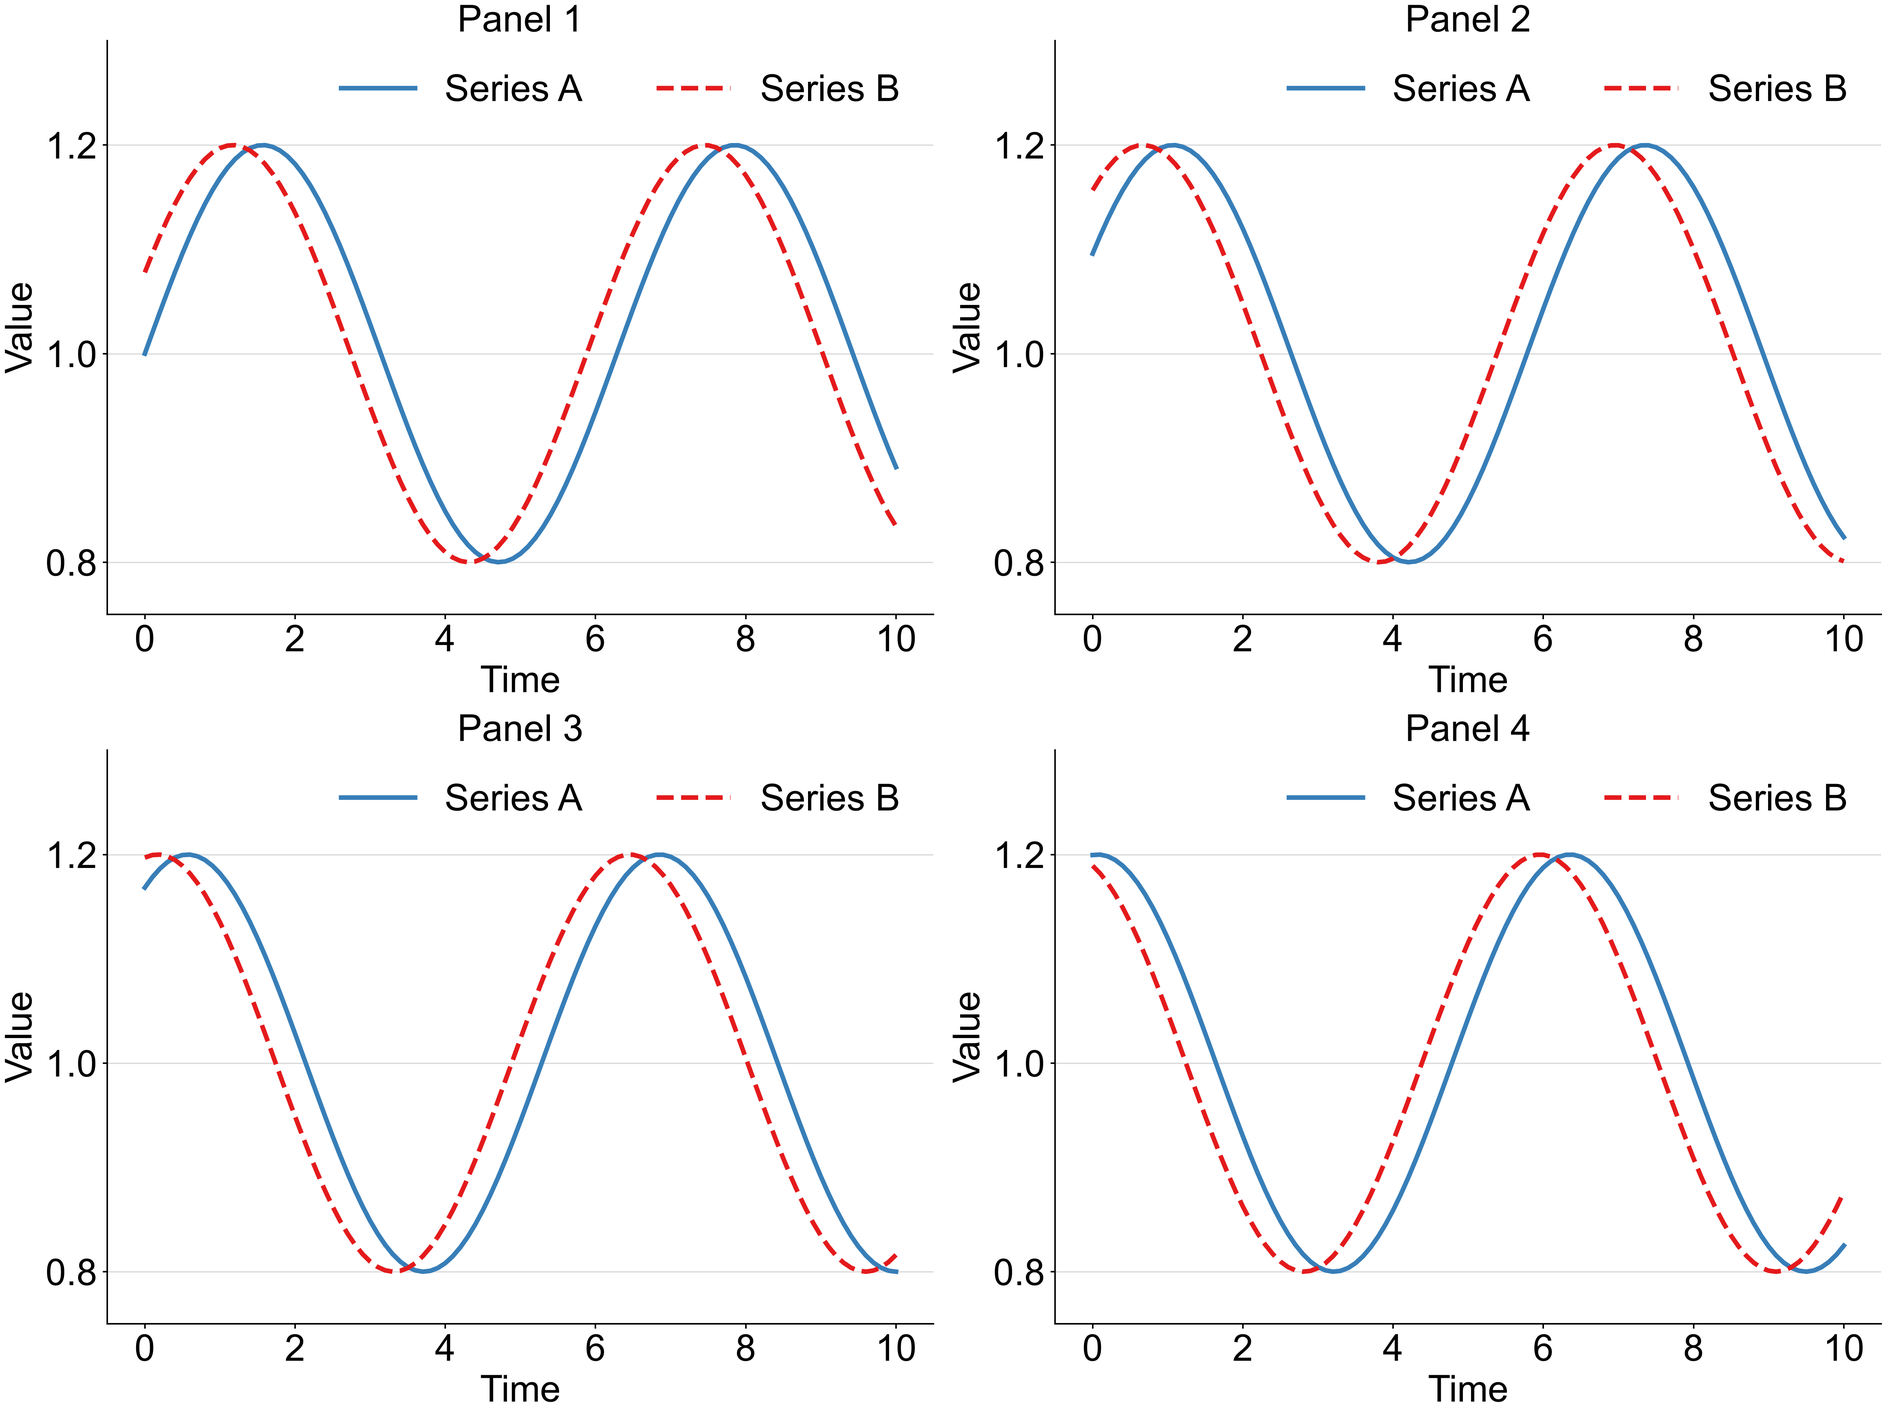
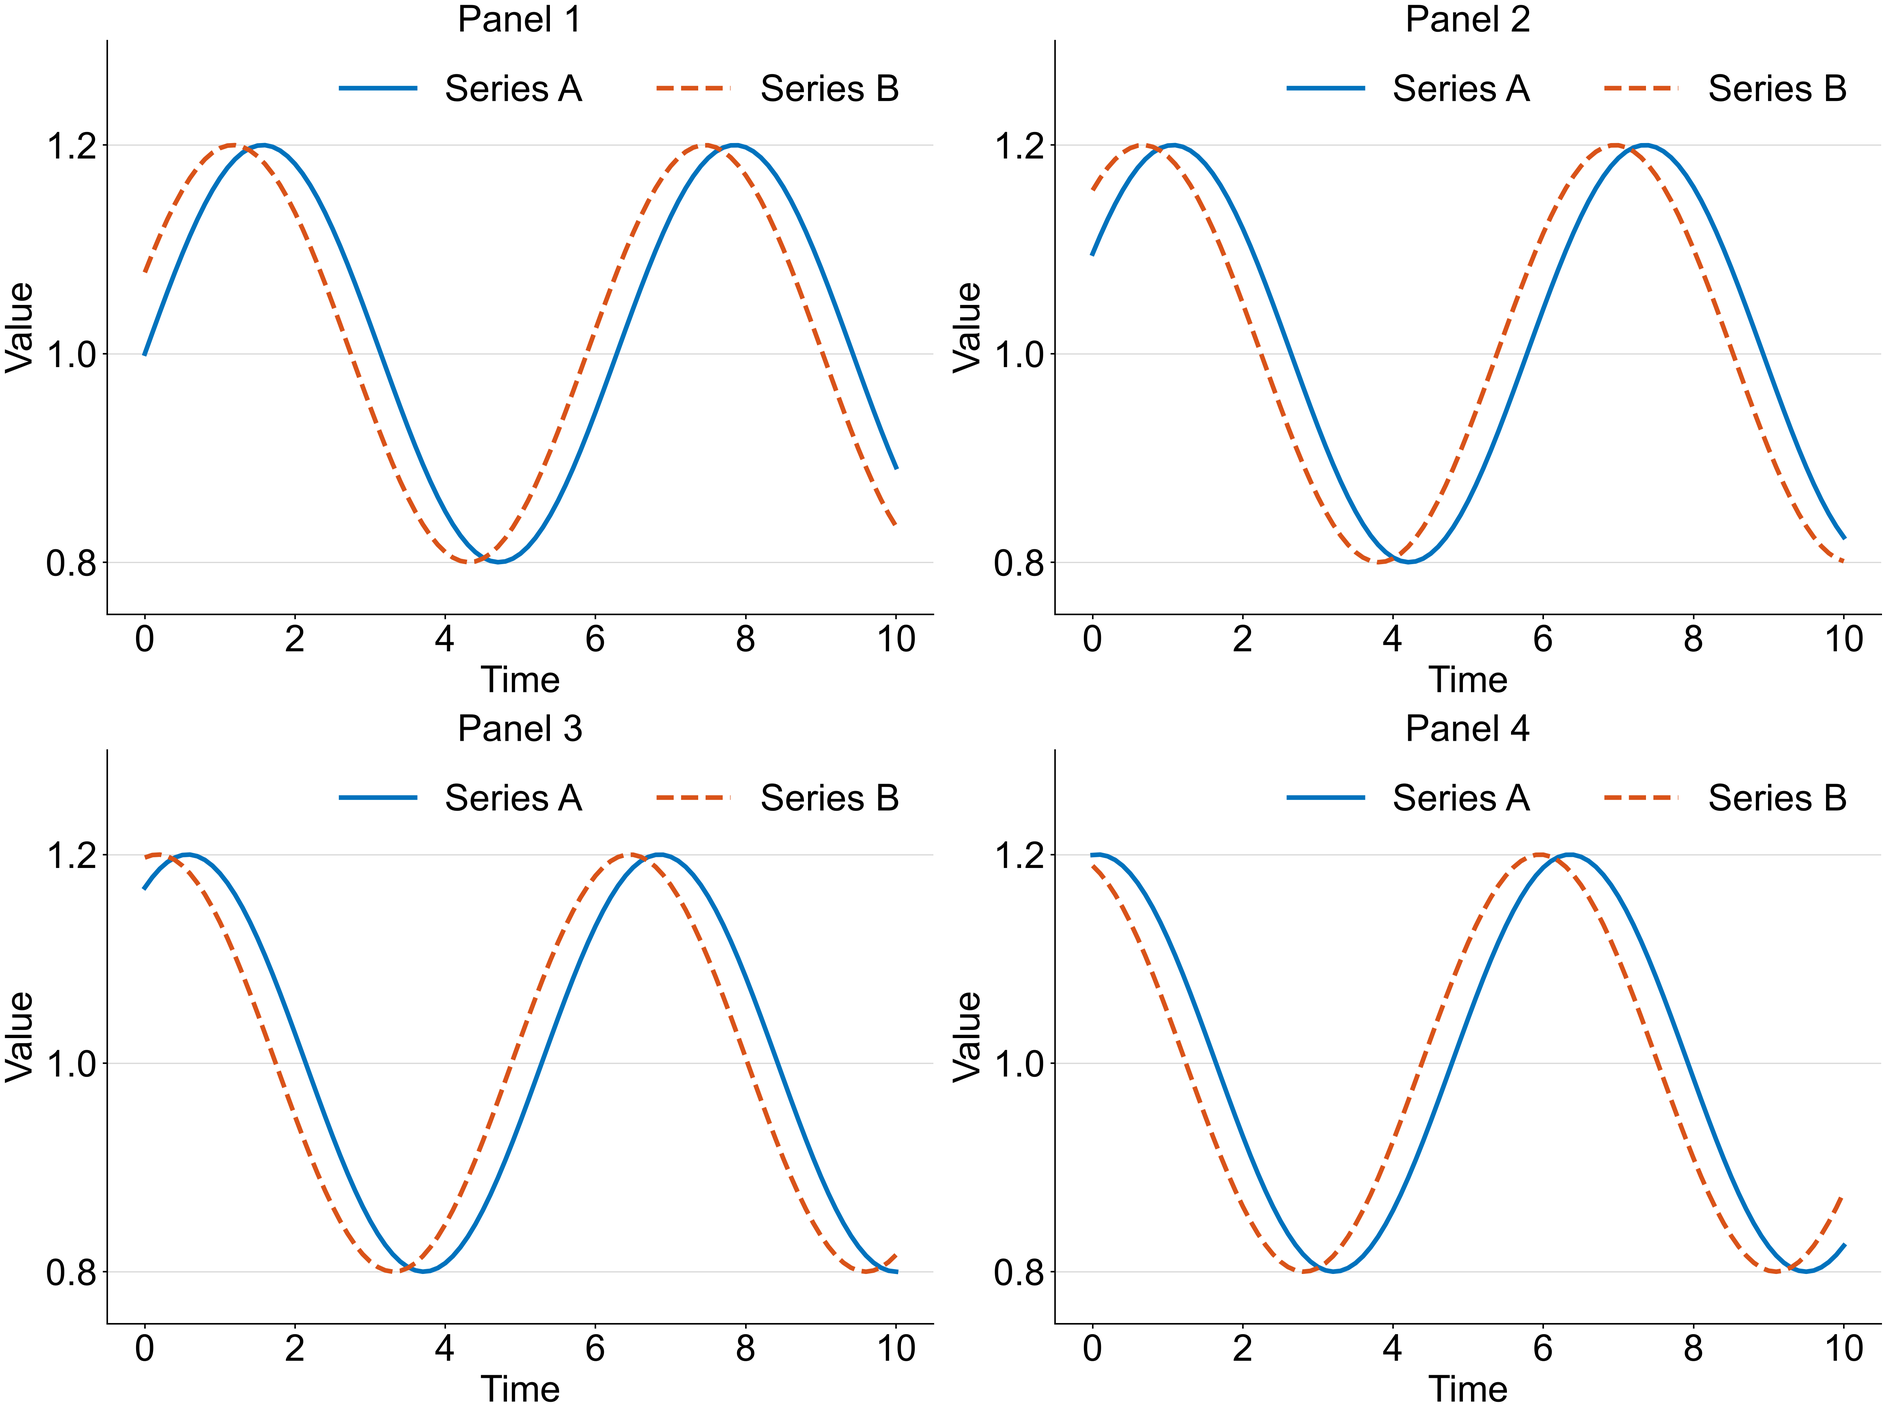
Use classic MATLAB colors by default

diff --git a/tests/python/test_style.py b/tests/python/test_style.py
@@ -87,8 +87,8 @@ def test_style_colours_and_export_defaults(tmp_path):
     fig, ax = subplots(figsize=(4, 3))
     (first,) = ax.plot([0, 1], [1, 2])
     (second,) = ax.plot([0, 1], [2, 3])
-    assert first.get_color() == style.blue == "#377eb8"
-    assert second.get_color() == style.red == "#e41a1c"
+    assert first.get_color() == style.blue == "#0072BD"
+    assert second.get_color() == style.orange == "#D95319"
     assert first.get_linewidth() == 3
     assert ax.get_xticklabels()[0].get_fontsize() == 24
     assert style.font_name in ("Helvetica", "Arial")
@@ -142,36 +142,29 @@ def test_png_300_defaults_override_inherited_export_settings(tmp_path):
 def test_complete_colour_cycle_and_named_colours():
     style = figure_style()
     expected = [
-        "#377eb8",
-        "#e41a1c",
-        "#4daf4a",
-        "#984ea3",
-        "#ff7f00",
-        "#ffff33",
-        "#a65628",
-        "#f781bf",
-        "#999999",
-    ]
-    names = ["blue", "red", "green", "purple", "orange", "yellow", "brown", "pink", "gray"]
-    fig, ax = subplots()
-    lines = [ax.plot([0, 1], [i, i + 1])[0] for i in range(10)]
-    assert [line.get_color() for line in lines] == expected + expected[:1]
-    assert [getattr(style, name) for name in names] == expected
-
-
-def test_classic_matlab_colour_order():
-    style = figure_style(palette="matlab")
-    expected = [
         "#0072BD", "#D95319", "#EDB120", "#7E2F8E",
         "#77AC30", "#4DBEEE", "#A2142F",
     ]
+    names = ["blue", "orange", "yellow", "purple", "green", "cyan", "red"]
     fig, ax = subplots()
     lines = [ax.plot([0, 1], [i, i + 1])[0] for i in range(8)]
     assert [line.get_color() for line in lines] == expected + expected[:1]
-    assert style.blue == expected[0]
-    assert style.orange == expected[1]
-    assert style.red == expected[6]
+    assert [getattr(style, name) for name in names] == expected
     assert style.matlab == tuple(expected)
+
+
+def test_set1_colour_order_remains_available():
+    style = figure_style(palette="set1")
+    expected = [
+        "#377eb8", "#e41a1c", "#4daf4a", "#984ea3", "#ff7f00",
+        "#ffff33", "#a65628", "#f781bf", "#999999",
+    ]
+    fig, ax = subplots()
+    lines = [ax.plot([0, 1], [i, i + 1])[0] for i in range(10)]
+    assert [line.get_color() for line in lines] == expected + expected[:1]
+    assert style.blue == expected[0]
+    assert style.red == expected[1]
+    assert style.set1 == tuple(expected)
 
 
 def test_reject_unknown_palette():

diff --git a/tests/matlab/test_figure_ticks.m b/tests/matlab/test_figure_ticks.m
@@ -28,21 +28,6 @@ end
 
 function testCompleteColourCycle(testCase)
 s = figure_style() ;
-expected = [55 126 184; 228 26 28; 77 175 74; 152 78 163; 255 127 0; ...
-    255 255 51; 166 86 40; 247 129 191; 153 153 153] / 255 ;
-fig = figure('Visible', 'off') ; ax = axes(fig) ; hold(ax, 'on') ;
-for i = 1:10
-    line = plot(ax, [0 1], [i i+1]) ;
-    verifyEqual(testCase, line.Color, expected(mod(i-1,9)+1,:), 'AbsTol', 1e-12) ;
-end
-names = {'blue','red','green','purple','orange','yellow','brown','pink','gray'} ;
-for i = 1:9
-    verifyEqual(testCase, s.(names{i}), expected(i,:), 'AbsTol', 1e-12) ;
-end
-end
-
-function testClassicMatlabColourCycle(testCase)
-s = figure_style(24, 3, 'matlab') ;
 expected = [0 0.4470 0.7410; 0.8500 0.3250 0.0980; ...
     0.9290 0.6940 0.1250; 0.4940 0.1840 0.5560; ...
     0.4660 0.6740 0.1880; 0.3010 0.7450 0.9330; ...
@@ -52,8 +37,23 @@ for i = 1:8
     line = plot(ax, [0 1], [i i+1]) ;
     verifyEqual(testCase, line.Color, expected(mod(i-1,7)+1,:), 'AbsTol', 1e-12) ;
 end
-verifyEqual(testCase, s.matlab, expected, 'AbsTol', 1e-12) ;
-verifyEqual(testCase, s.orange, expected(2,:), 'AbsTol', 1e-12) ;
+names = {'blue','orange','yellow','purple','green','cyan','red'} ;
+for i = 1:7
+    verifyEqual(testCase, s.(names{i}), expected(i,:), 'AbsTol', 1e-12) ;
+end
+end
+
+function testSet1ColourCycleRemainsAvailable(testCase)
+s = figure_style(24, 3, 'set1') ;
+expected = [55 126 184; 228 26 28; 77 175 74; 152 78 163; 255 127 0; ...
+    255 255 51; 166 86 40; 247 129 191; 153 153 153] / 255 ;
+fig = figure('Visible', 'off') ; ax = axes(fig) ; hold(ax, 'on') ;
+for i = 1:10
+    line = plot(ax, [0 1], [i i+1]) ;
+    verifyEqual(testCase, line.Color, expected(mod(i-1,9)+1,:), 'AbsTol', 1e-12) ;
+end
+verifyEqual(testCase, s.set1, expected, 'AbsTol', 1e-12) ;
+verifyEqual(testCase, s.red, expected(2,:), 'AbsTol', 1e-12) ;
 end
 
 function testDefaultExportIsOnlyPngAt300Dpi(testCase)

diff --git a/figure_style.m b/figure_style.m
@@ -1,5 +1,5 @@
 % =========================================================================
-% figure_style: the figure template, with Set1 or classic MATLAB colours
+% figure_style: the figure template, with classic MATLAB colours by default
 %
 %   s = figure_style(fontSize, lineWidth, palette)
 %
@@ -7,8 +7,8 @@
 % Tufte: Helvetica, black axes and grid, ticks out and short, horizontal
 % grid only, no box, axes line width 1, title in normal weight, labels
 % and title in the axes font size, white figures 8.5 by 6.375 inches
-% printed at their screen size. Set1 remains the default palette. Pass
-% 'matlab' as the third argument for MATLAB's R2014b-R2024b ColorOrder.
+% printed at their screen size. MATLAB's R2014b-R2024b ColorOrder is the
+% default palette. Pass 'set1' as the third argument for ColorBrewer Set1.
 % Colours are returned by name in s, with line width and font size in s.width and
 % s.font. The single figure of the template uses a 24 point font and
 % lines of width 3, the defaults; multi-panel figures keep the font and
@@ -26,7 +26,7 @@ function s = figure_style(fontSize, lineWidth, palette)
 
 if nargin < 1 || isempty(fontSize), fontSize = 24 ; end
 if nargin < 2 || isempty(lineWidth), lineWidth = 3 ; end
-if nargin < 3 || isempty(palette), palette = 'set1' ; end
+if nargin < 3 || isempty(palette), palette = 'matlab' ; end
 palette = validatestring(palette, {'set1', 'matlab'}) ;
 availableFonts = listfonts ;
 if any(strcmp(availableFonts, 'Helvetica'))

diff --git a/figures.m b/figures.m
@@ -5,7 +5,7 @@
 %% Description
 %
 % This script produces a collection of scientific figures that carefully follow data visualization best practices,
-% with the defaults of figure_style.m, the Set1 palette, and the convention of figure_print.m: PNG at 300 dpi, in figures/.
+% with the defaults of figure_style.m, the classic MATLAB palette, and the convention of figure_print.m: PNG at 300 dpi, in figures/.
 %
 %% Output
 %
@@ -32,12 +32,12 @@ rng(0, 'twister') % Reproduce the illustration data.
 
 %% Set the template's defaults
 
-% Helvetica, black axes, ticks out, horizontal grid, no box, 8.5 by 6.375 inches, and the Set1 palette as the color order
+% Helvetica, black axes, ticks out, horizontal grid, no box, 8.5 by 6.375 inches, and the classic MATLAB color order
 s = figure_style();
 
 %% Predefine qualitative color palettes
 
-% Set1 colors, from figure_style
+% Named colors from figure_style; brown, pink, and gray remain optional accents
 
 redColor = s.red;
 blueColor = s.blue;

diff --git a/src/style_figures/__init__.py b/src/style_figures/__init__.py
@@ -46,13 +46,14 @@ def _positive(value, name):
     return value
 
 
-def figure_style(font_size=24, line_width=3, palette="set1"):
+def figure_style(font_size=24, line_width=3, palette="matlab"):
     """Set session defaults and return named colours, font and line width.
 
     Use Helvetica when installed, otherwise Arial; fail if neither is present.
     Existing artists retain their styling. Use matplotlib.rc_context() to
-    limit the defaults to a block of code. Select ``palette="matlab"`` for
-    MATLAB's seven-colour ColorOrder from R2014b-R2024b.
+    limit the defaults to a block of code. The default palette is MATLAB's
+    seven-colour ColorOrder from R2014b-R2024b. Select ``palette="set1"``
+    for the previous nine-colour cycle.
     """
     font_size = _positive(font_size, "font_size")
     line_width = _positive(line_width, "line_width")

diff --git a/README.md b/README.md
@@ -1,6 +1,6 @@
 # Style figures
 
-A reusable scientific figure template for MATLAB, Python with Matplotlib, and R with ggplot2. All three versions use Helvetica or Arial, ColorBrewer Set1 by default, outward ticks, horizontal grid lines and a white background. Every visible subplot shows x and y tick marks and tick labels, including panels with shared axes. An optional palette reproduces MATLAB's classic seven-color order.
+A reusable scientific figure template for MATLAB, Python with Matplotlib, and R with ggplot2. All three versions use Helvetica or Arial, MATLAB's classic seven-color order by default, outward ticks, horizontal grid lines and a white background. Every visible subplot shows x and y tick marks and tick labels, including panels with shared axes. ColorBrewer Set1 remains available as an option.
 
 The default font size is 24 points and the line width is 3 points. A single panel measures 8.5 by 6.375 inches. Multi-panel Python figures use that size per panel. Produce PNG at 300 dpi only, unless the user explicitly requests another format or resolution. Do not automatically create companion PDFs or other image formats. This rule applies to all three languages and to downstream plotting scripts.
 
@@ -8,9 +8,9 @@ This repository was previously named `mvazcar/matlab-figures`. It extends [Pasca
 
 ## Use in Python
 
-The default automatic colour order in all three languages is blue, red, green, purple, orange, yellow, brown, pink and grey. All nine colours are from ColorBrewer Set1. The cycle restarts at blue after the ninth series. Named colours such as `s.blue` and `s.red` keep their meanings.
+The default automatic colour order in all three languages is MATLAB's classic ColorOrder: blue `#0072BD`, orange `#D95319`, yellow `#EDB120`, purple `#7E2F8E`, green `#77AC30`, cyan `#4DBEEE`, and dark red `#A2142F`. The cycle repeats after seven series. MATLAB's [light-theme default changed slightly in R2025a](https://www.mathworks.com/help/matlab/ref/orderedcolors.html); this template uses the earlier palette for consistent replication figures.
 
-For the classic MATLAB ColorOrder used from R2014b through R2024b, select `palette="matlab"` in Python or R, or pass `'matlab'` as the third MATLAB argument. The seven colours, in order, are blue `#0072BD`, orange `#D95319`, yellow `#EDB120`, purple `#7E2F8E`, green `#77AC30`, cyan `#4DBEEE`, and dark red `#A2142F`. The cycle repeats after seven series. MATLAB's [light-theme default changed slightly in R2025a](https://www.mathworks.com/help/matlab/ref/orderedcolors.html); this option deliberately reproduces the earlier palette for older replication code.
+To use the previous nine-colour ColorBrewer Set1 cycle, select `palette="set1"` in Python or R, or pass `'set1'` as the third MATLAB argument. Named colours such as `s.blue` and `s.red` follow the selected palette.
 
 Install into your project's Python environment:
 
@@ -37,7 +37,7 @@ Use `subplots()` in place of `matplotlib.pyplot.subplots()` to show both sets of
 
 Tick locations, custom text labels, percentage or date formatters, limits, data and shared-axis links stay unchanged. Python treats explicitly empty tick locations or formatters as deliberate overrides. Panels hidden with `axis('off')`, colourbars, polar axes and 3D axes are excluded. The template targets ordinary Cartesian scientific plots.
 
-`figure_style()` changes defaults for subsequently created artists. To limit its scope, call it inside `with matplotlib.rc_context():`. For custom sizes, use `figure_style(font_size=18, line_width=2)` and `subplots(..., figsize=(12, 5))`. Use `figure_style(palette="matlab")` to switch colour order.
+`figure_style()` changes defaults for subsequently created artists. To limit its scope, call it inside `with matplotlib.rc_context():`. For custom sizes, use `figure_style(font_size=18, line_width=2)` and `subplots(..., figsize=(12, 5))`. Use `figure_style(palette="set1")` for the earlier template colours.
 
 `figure_print('comparison')` adds `.png` and saves at 300 dpi. `figure_style()` also sets ordinary Matplotlib exports to PNG at 300 dpi, overriding inherited export defaults. Use an explicit `.pdf` suffix only when the user requests a PDF. Exports use the figure's dimensions in inches; pass `bbox_inches='tight'` only when you want cropping to change those dimensions.
 
@@ -61,7 +61,7 @@ figure_print('comparison.png', fig); % Also restores ticks before export
 ```
 
 Keep the folder on your MATLAB path, or copy `figure_style.m`, `figure_ticks.m` and `figure_print.m` together into a project. Call `figure_style()` at the top of each plotting script. The defaults last for the MATLAB session.
-To use the classic MATLAB colour order, call `figure_style(24, 3, 'matlab')`.
+To use Set1 instead, call `figure_style(24, 3, 'set1')`.
 
 `figure_ticks()` visits every visible subplot. It restores empty tick positions and labels to automatic values, while preserving non-empty custom positions and labels. Hidden axes remain hidden. It does not change the plotted data or axis limits.
 
@@ -91,7 +91,7 @@ p <- ggplot2::ggplot(data.frame(x = 1:4, y = c(2, 3, 2.5, 4)),
 figure_print(p, "example.png")
 ```
 
-`figure_style()` returns named colours, font and line-width settings. The `width` value is in points; use `width_mm` for ggplot2's line-width argument. Use `scale_colour_style_figures()` or `scale_fill_style_figures()` for multiple series. Pass `palette = "matlab"` to these helpers, `figure_style()`, and `theme_style_figures()` to use the seven-colour order. For facets, use `facet_wrap_style_figures()` or `facet_grid_style_figures()` so every panel has bottom and left tick labels. The wrappers require ggplot2 3.5 or newer. Adjust font and line width for a different sheet size with `theme_style_figures(font_size = 18, line_width = 2)` and matching `figure_style(18, 2)`. `figure_print()` saves one 8.5 by 6.375 inch PNG at 300 dpi by default; pass `width` and `height` for a slide-sized plot.
+`figure_style()` returns named colours, font and line-width settings. The `width` value is in points; use `width_mm` for ggplot2's line-width argument. Use `scale_colour_style_figures()` or `scale_fill_style_figures()` for multiple series. Pass `palette = "set1"` to these helpers, `figure_style()`, and `theme_style_figures()` to use the earlier nine-colour order. For facets, use `facet_wrap_style_figures()` or `facet_grid_style_figures()` so every panel has bottom and left tick labels. The wrappers require ggplot2 3.5 or newer. Adjust font and line width for a different sheet size with `theme_style_figures(font_size = 18, line_width = 2)` and matching `figure_style(18, 2)`. `figure_print()` saves one 8.5 by 6.375 inch PNG at 300 dpi by default; pass `width` and `height` for a slide-sized plot.
 
 ## Font requirement
 
@@ -145,4 +145,4 @@ The tests render figures and check tick visibility, shared-axis behaviour, prese
 
 ## Credits and licence
 
-The original proportions, typography, grids and minimalist design are [Pascal Michaillat's](https://pascalmichaillat.org/d/). This extension adds the Set1 default palette, reusable helpers, ticks on every subplot, and the Matplotlib and ggplot2 implementations. The repository uses the [MIT licence](LICENSE.md).
+The original proportions, typography, grids and minimalist design are [Pascal Michaillat's](https://pascalmichaillat.org/d/). This extension adds a selectable Set1 palette, reusable helpers, ticks on every subplot, and the Matplotlib and ggplot2 implementations. The repository uses the [MIT licence](LICENSE.md).

diff --git a/AGENTS.md b/AGENTS.md
@@ -1,15 +1,15 @@
 # Figure template rules
 
-This repository provides the same scientific plotting style in MATLAB and Matplotlib. Preserve the original MATLAB public calls when extending it.
+This repository provides the same scientific plotting style in MATLAB, Matplotlib, and ggplot2. Preserve the original MATLAB public calls when extending it.
 
 Show bottom x and left y tick marks and tick labels on every visible Cartesian subplot, including shared-axis panels. Keep custom non-empty ticks and labels, data, limits and sharing intact. Leave intentionally hidden panels and colourbars alone. Use the provided subplot and export helpers rather than hiding inner labels.
 
 Use Helvetica or Arial only. Prefer Helvetica when installed, otherwise Arial. Fail clearly when neither is available. Do not introduce a different font fallback.
 
-Keep the Set1 palette, normal-weight titles, horizontal grid, outward short ticks, 24-point text, 3-point lines and PNG export at 300 dpi. Preserve the original MIT attribution.
+Keep normal-weight titles, horizontal grid, outward short ticks, 24-point text, 3-point lines and PNG export at 300 dpi. Preserve the original MIT attribution.
 
-The default colour cycle in both languages is blue, red, green, purple, orange, yellow, brown, pink and grey, all from Set1. Preserve named colour meanings when changing the cycle.
+The default colour cycle in all three languages is MATLAB's classic seven colours: blue, orange, yellow, purple, green, cyan, and dark red. Keep ColorBrewer Set1 available as an explicit option. Preserve named colour meanings when changing the cycle.
 
-For both MATLAB and Python, produce ONLY PNG at 300 dpi unless the user explicitly asks for another format or resolution. Do not automatically add PDF, SVG, JPEG or other companion exports. Apply this rule to new examples, plotting scripts and downstream projects that use this template. Existing historical files need not be deleted.
+For MATLAB, Python, and R, produce ONLY PNG at 300 dpi unless the user explicitly asks for another format or resolution. Do not automatically add PDF, SVG, JPEG or other companion exports. Apply this rule to new examples, plotting scripts and downstream projects that use this template. Existing historical files need not be deleted.
 
 Validate Python with pytest and Ruff, and MATLAB with runtests('tests/matlab'). Render and inspect the example figures when layout or style changes. Test visible behaviour through the public helpers, not source-code strings. Document usage changes in README.md.
